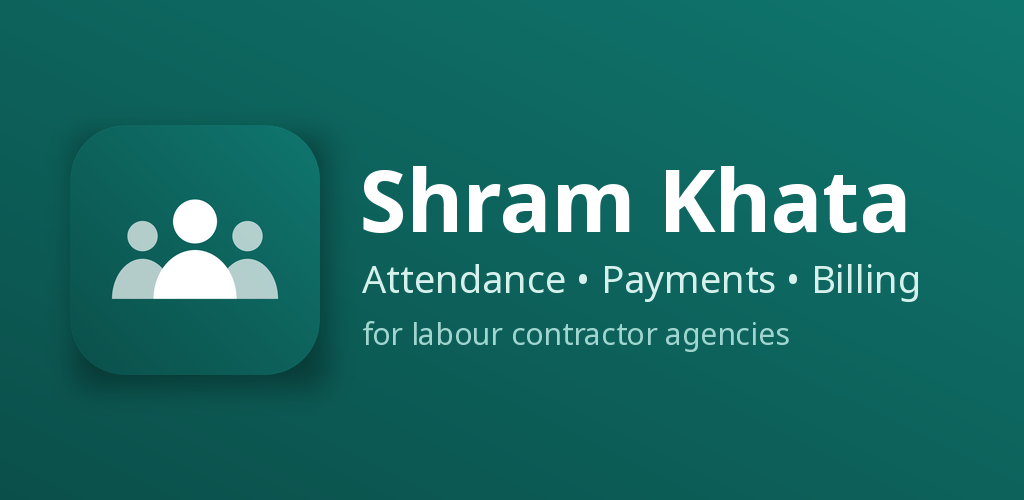
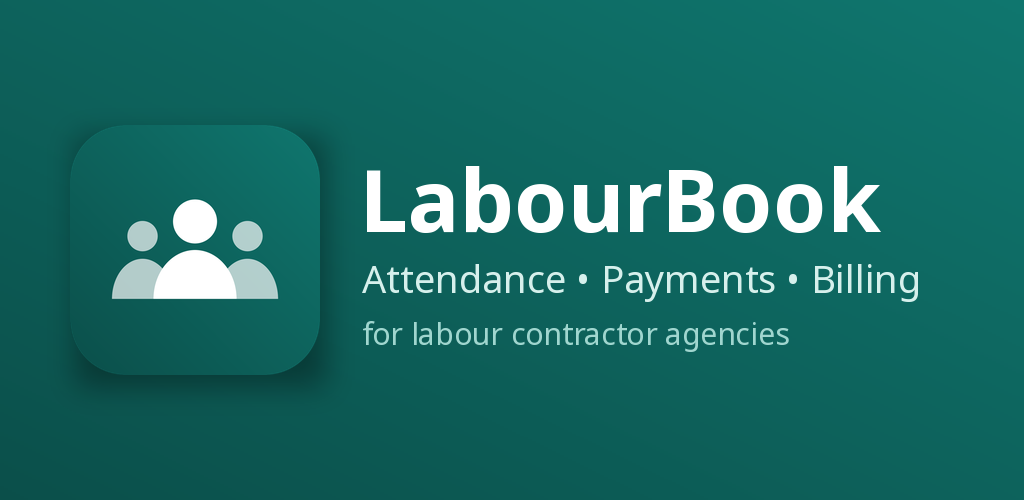
Rename app to LabourBook, package com.oneweblink.labourbook
New launcher label, welcome screen, Play Store title (LabourBook:
Attendance & Pay), store graphic, privacy policy and docs. Android
package/namespace moved to com.oneweblink.labourbook before the first
Play Store upload.

Claude-Session: https://claude.ai/code/session_013FtgAWU2Cvzp97admXC6Lc

Changed region(s): [[0.3438, 0.33, 0.9062, 0.48]]

diff --git a/shram_khata/store_assets/privacy-policy.html b/shram_khata/store_assets/privacy-policy.html
@@ -3,7 +3,7 @@
 <head>
 <meta charset="utf-8">
 <meta name="viewport" content="width=device-width, initial-scale=1">
-<title>Shram Khata - Privacy Policy</title>
+<title>LabourBook - Privacy Policy</title>
 <style>
   body{font-family:system-ui,-apple-system,Segoe UI,Roboto,sans-serif;max-width:760px;margin:0 auto;padding:24px 18px 60px;line-height:1.65;color:#111827}
   h1{color:#0b4f4a;margin-bottom:4px} h2{color:#0f766e;margin-top:32px}
@@ -11,10 +11,10 @@
 </style>
 </head>
 <body>
-<h1>Shram Khata – Privacy Policy</h1>
+<h1>LabourBook – Privacy Policy</h1>
 <p class="meta">Last updated: 9 October 2026</p>
 
-<p>Shram Khata ("the app") is a record-keeping app for labour contractor agencies. It helps you keep labour attendance, payments, company contracts and invoices. This policy explains what happens to your information.</p>
+<p>LabourBook ("the app") is a record-keeping app for labour contractor agencies. It helps you keep labour attendance, payments, company contracts and invoices. This policy explains what happens to your information.</p>
 
 <h2>1. Your data stays on your phone</h2>
 <p>All information you enter (labour names, mobile numbers, addresses, photos, documents, attendance, payments, company and invoice details, your business profile) is stored <strong>only on your device</strong>, inside the app's private storage. The app does not send this information to us or to any server.</p>

diff --git a/shram_khata/lib/features/settings/backup_screen.dart b/shram_khata/lib/features/settings/backup_screen.dart
@@ -27,14 +27,14 @@ class _BackupScreenState extends ConsumerState<BackupScreen> {
     setState(() => _busy = true);
     try {
       final tmp = await getTemporaryDirectory();
-      final path = p.join(tmp.path, 'shram_khata_backup_${D.today()}.sqlite');
+      final path = p.join(tmp.path, 'labourbook_backup_${D.today()}.sqlite');
       final f = File(path);
       if (await f.exists()) await f.delete();
       await ref.read(databaseProvider).customStatement('VACUUM INTO ?', [path]);
       await SharePlus.instance.share(ShareParams(
         files: [XFile(path)],
-        subject: 'Shram Khata backup ${D.today()}',
-        text: 'Shram Khata backup. Keep this file safe: it contains all labour and payment data.',
+        subject: 'LabourBook backup ${D.today()}',
+        text: 'LabourBook backup. Keep this file safe: it contains all labour and payment data.',
       ));
     } catch (e) {
       if (mounted) showError(context, e);

diff --git a/shram_khata/lib/features/auth/welcome_screen.dart b/shram_khata/lib/features/auth/welcome_screen.dart
@@ -44,7 +44,7 @@ class WelcomeScreen extends StatelessWidget {
                       ),
                       const SizedBox(height: 24),
                       const Text(
-                        'Shram Khata',
+                        'LabourBook',
                         style: TextStyle(
                           fontSize: 34,
                           fontWeight: FontWeight.w800,

diff --git a/shram_khata/lib/features/settings/more_screen.dart b/shram_khata/lib/features/settings/more_screen.dart
@@ -119,7 +119,7 @@ class MoreScreen extends ConsumerWidget {
           ),
         ]),
         const SizedBox(height: 20),
-        const Center(child: Text('Shram Khata  •  v1.0', style: TextStyle(color: Palette.muted, fontSize: 12))),
+        const Center(child: Text('LabourBook  •  v1.0', style: TextStyle(color: Palette.muted, fontSize: 12))),
       ]),
     );
   }

diff --git a/shram_khata/test/app_test.dart b/shram_khata/test/app_test.dart
@@ -77,7 +77,7 @@ void main() {
     final db = AppDatabase.inMemory();
     addTearDown(() => t.runAsync(db.close));
     await boot(t, db);
-    expect(find.text('Shram Khata'), findsOneWidget);
+    expect(find.text('LabourBook'), findsOneWidget);
     await shot(t, '01_welcome');
 
     await t.tap(find.text('Get started'));

diff --git a/shram_khata/lib/app.dart b/shram_khata/lib/app.dart
@@ -36,7 +36,7 @@ class _ShramKhataAppState extends ConsumerState<ShramKhataApp> {
       home = const Shell();
     }
     return MaterialApp(
-      title: 'Shram Khata',
+      title: 'LabourBook',
       debugShowCheckedModeBanner: false,
       theme: buildTheme(),
       home: AnimatedSwitcher(

diff --git a/shram_khata/android/app/src/main/kotlin/com/oneweblink/labourbook/MainActivity.kt b/shram_khata/android/app/src/main/kotlin/com/oneweblink/labourbook/MainActivity.kt
@@ -1,4 +1,4 @@
-package com.shramkhata.app
+package com.oneweblink.labourbook
 
 import io.flutter.embedding.android.FlutterActivity
 

diff --git a/shram_khata/HOW_TO_RUN_AND_PUBLISH.md b/shram_khata/HOW_TO_RUN_AND_PUBLISH.md
@@ -1,4 +1,4 @@
-# Shram Khata: chalane aur publish karne ke steps (Windows)
+# LabourBook: chalane aur publish karne ke steps (Windows)
 
 ## A. Computer me taiyari (ek baar)
 1. Zip par right-click > **Extract All**. Ek folder `shram_khata` banega (andar `pubspec.yaml` dikhni chahiye).
@@ -40,5 +40,5 @@
 8. Sab theek hone par **Production > Create release** me wahi AAB upload karke review ke liye bhejo. Review me kuch din lag sakte hain.
 
 ## Dhyan do
-- `applicationId` (`com.shramkhata.app`) Play Store par ek baar chhapne ke baad badal nahi sakta.
+- `applicationId` (`com.oneweblink.labourbook`) Play Store par ek baar chhapne ke baad badal nahi sakta.
 - Abhi data sirf phone me rehta hai. Phone kho gaya to data jayega. More > Backup & export se copy rakho.

diff --git a/shram_khata/store_assets/PLAY_STORE_STEPS.md b/shram_khata/store_assets/PLAY_STORE_STEPS.md
@@ -41,7 +41,7 @@ File: `build\app\outputs\bundle\release\app-release.aab`
 Zaroori: ye tabhi Play Store me chalegi jab Step 3 ka `key.properties` bana ho. Warna Play "debug key se signed" bol ke mana kar dega.
 
 ## Step 5: Play Console me app banao
-1. **Create app**: App name `Shram Khata: Labour Manager`, language English (India), **App**, **Free**, declarations tick karo.
+1. **Create app**: App name `LabourBook: Attendance & Pay`, language English (India), **App**, **Free**, declarations tick karo.
 2. Left menu me **Dashboard** ke "Set up your app" ki list ek-ek karke bharo. Saare jawab `store-listing.md` me likhe hain:
    - Privacy policy (Step 2 ka URL)
    - App access, Ads (No), Content rating, Target audience (18+), Data safety

diff --git a/shram_khata/store_assets/store-listing.md b/shram_khata/store_assets/store-listing.md
@@ -1,13 +1,13 @@
 # Play Store listing text (copy and paste)
 
 ## App name (max 30)
-Shram Khata: Labour Manager
+LabourBook: Attendance & Pay
 
 ## Short description (max 80)
 Labour attendance, daily payments and company billing for contractor agencies.
 
 ## Full description (max 4000)
-Run your labour contractor agency from one simple app. Shram Khata keeps attendance, daily payments, salary balances and company bills in one place, and works offline on site.
+Run your labour contractor agency from one simple app. LabourBook keeps attendance, daily payments, salary balances and company bills in one place, and works offline on site.
 
 WHAT YOU CAN DO
 

diff --git a/shram_khata/README.md b/shram_khata/README.md
@@ -1,4 +1,4 @@
-# Shram Khata
+# LabourBook
 
 Android app for labour contractor agencies: attendance (P / A / H + overtime),
 daily payments and ledger, company contracts and billing, PDF statements and
